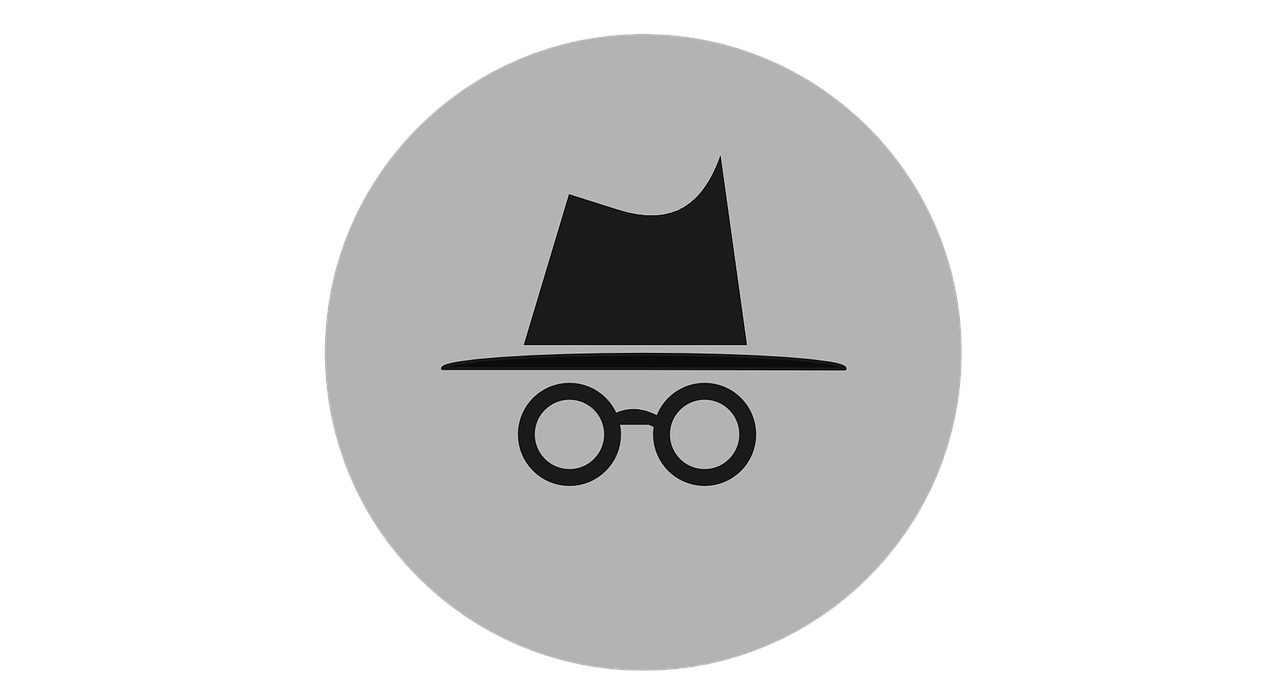
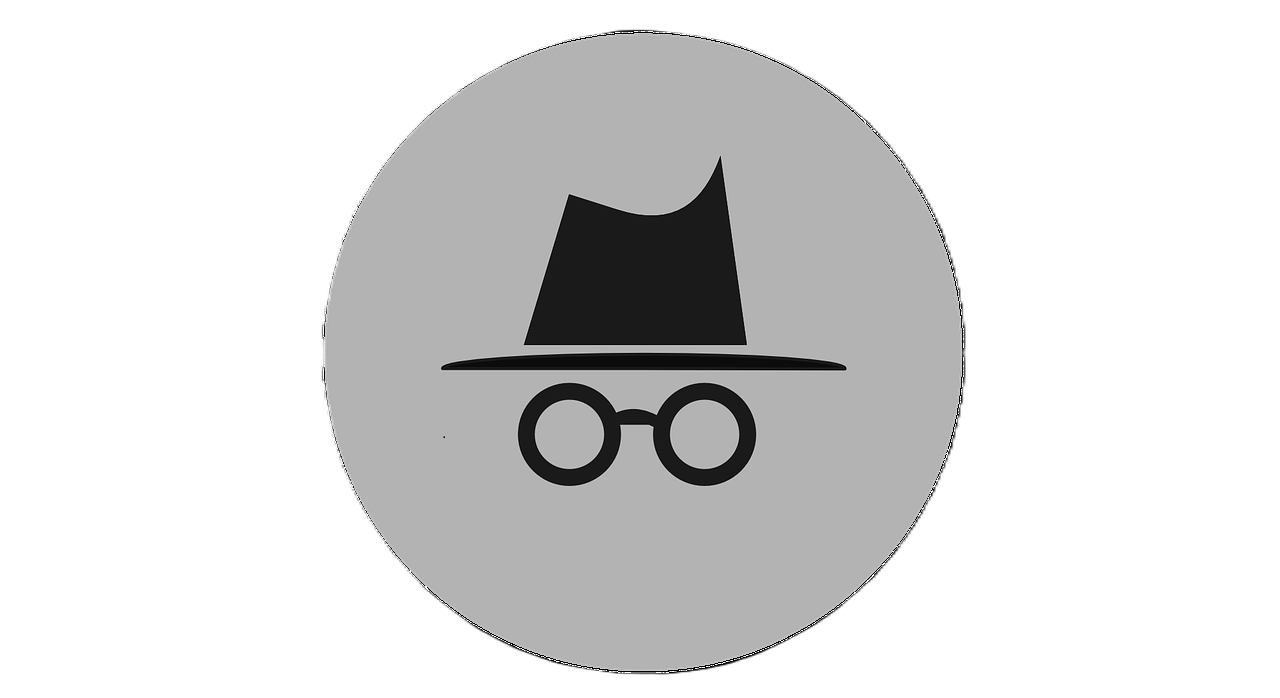
margin negativa existe, consegui colocar a imagem de anonimo mais pra esquerda

diff --git a/indexStyle.css b/indexStyle.css
@@ -174,7 +174,6 @@ a {
   box-shadow: rgba(0, 0, 0, 0.2) 0px 2px 4px;
   transition: all 0.3s ease-in-out;
   
-  
   font-family: "Google Sans", arial, sans-serif;
   font-size: 14px;
   height: 40px;
@@ -192,6 +191,10 @@ a {
   align-items: center;
   justify-content: center; /* Para centralizar o texto */
   text-align: center;
+}
+
+.login-button span {
+  margin-right: 1rem;
 }
 
 .login-button:hover {
@@ -212,13 +215,11 @@ a {
 
 /* Estilo da imagem no botão */
 .login-icon {
-  width: 80px; /* Ajuste o tamanho conforme necessário */
   height: 100%;
-  object-fit: contain;
+  margin-left: -17px;
 }
 
-/* Força a imagem para a extrema esquerda */
-.login-icon-wrapper {
-  margin: 0; /* Remove o espaçamento */
-  left: 2px; /* Margem fixa da imagem à esquerda */
+
+.login-icon-wrapper span {
+  margin-right: 2px;
 }
